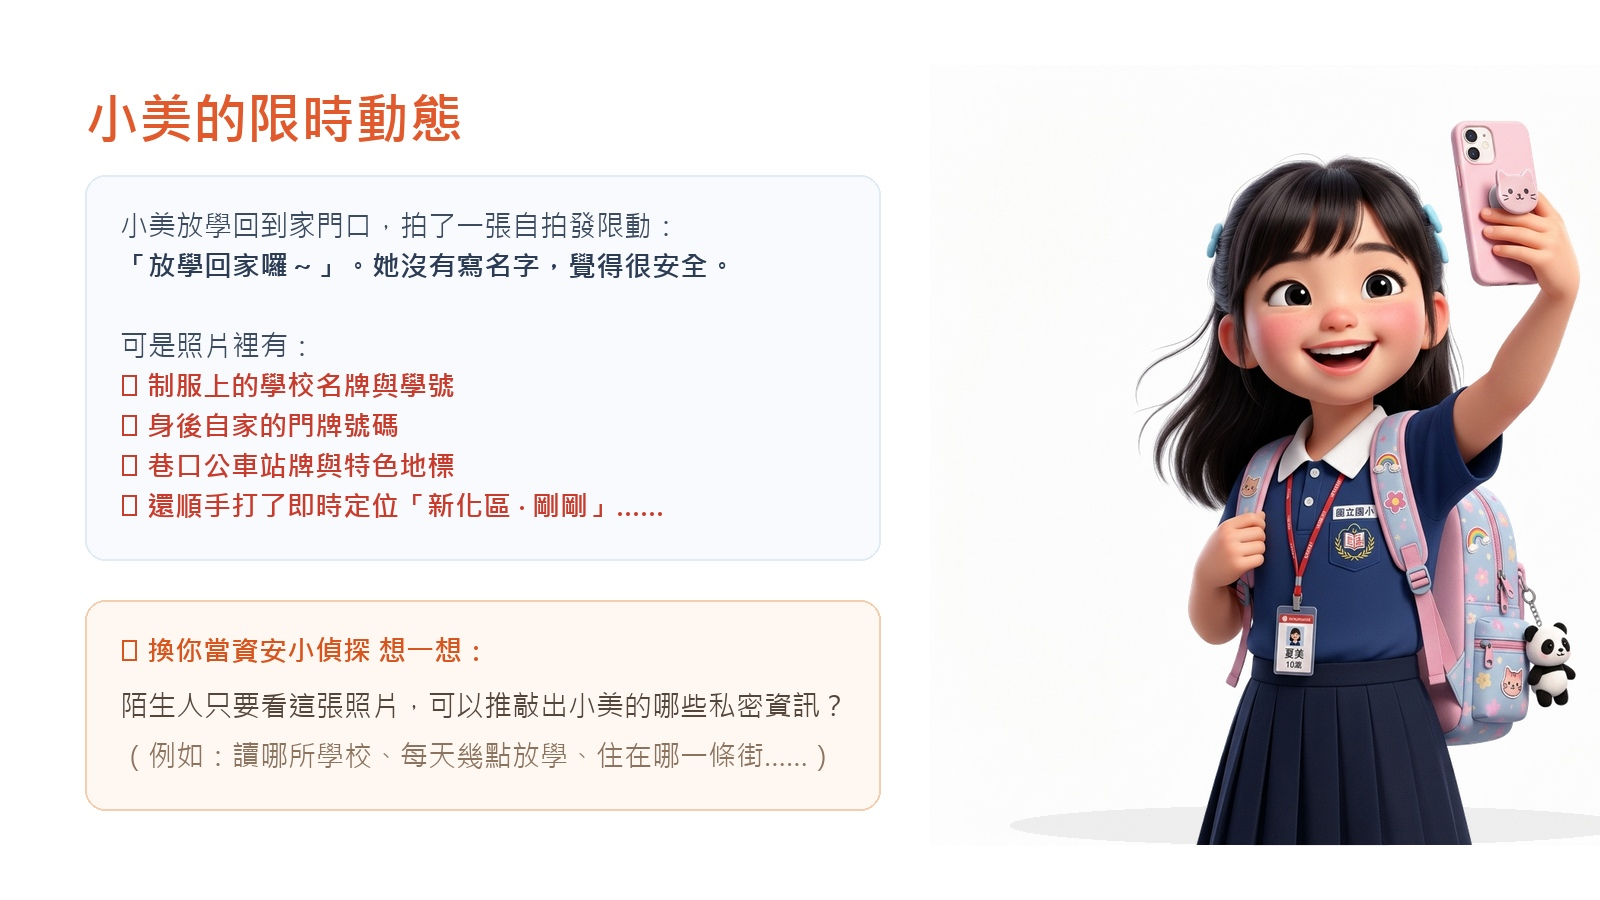
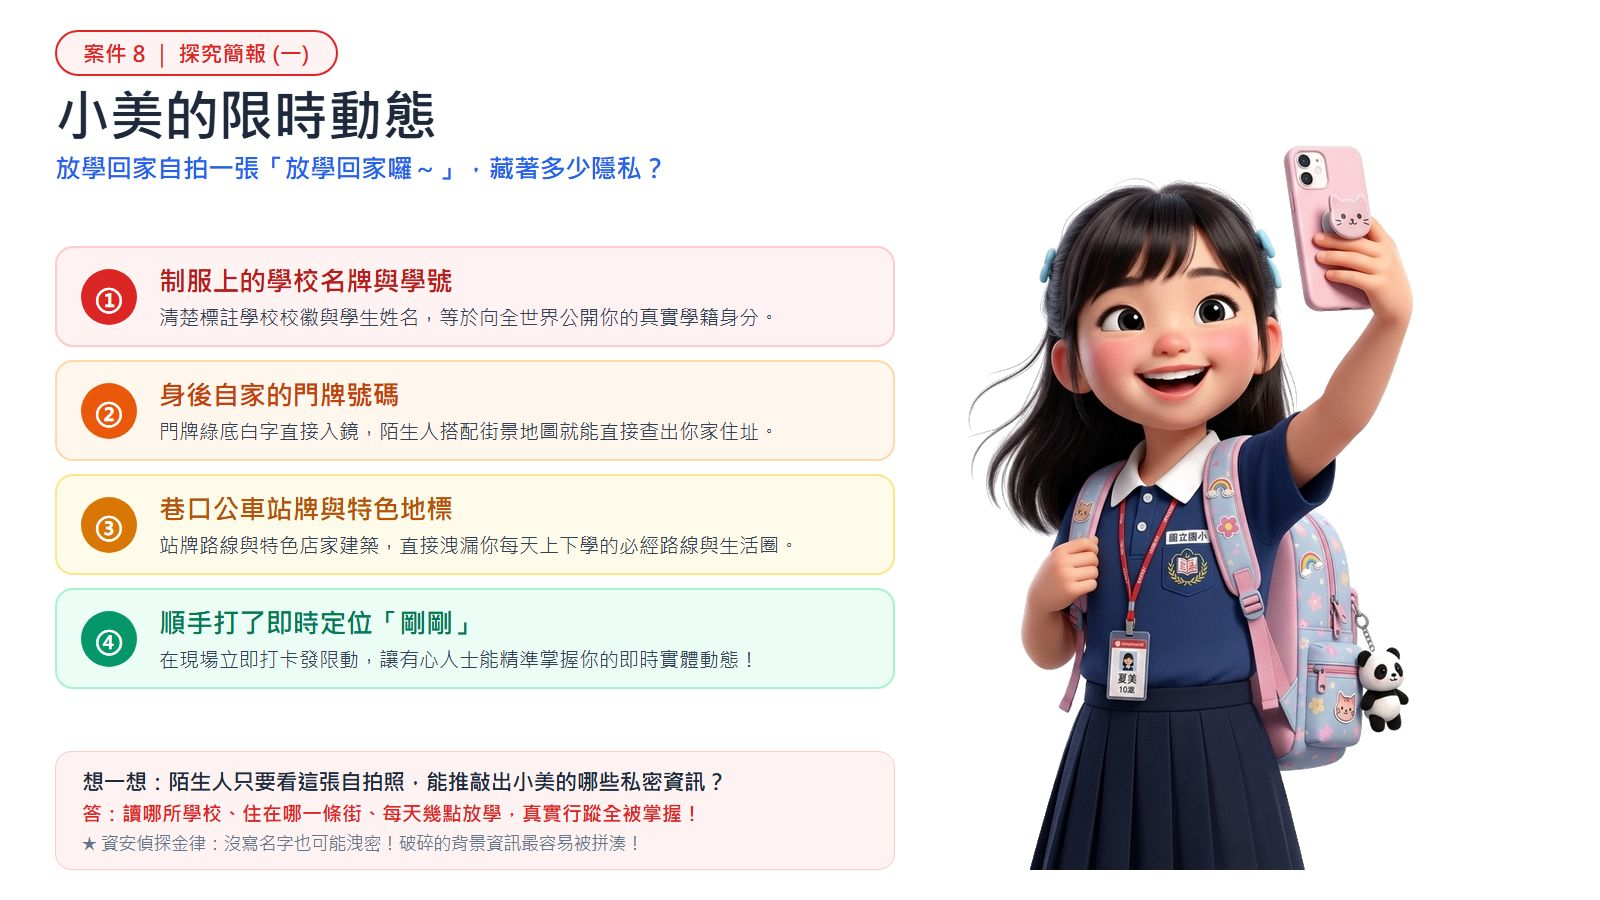
fix(case8): 案件8限時動態全面升級3D皮克斯自拍小美與黃金留白

diff --git a/units/g5-cyber-safety/index.html b/units/g5-cyber-safety/index.html
@@ -587,7 +587,7 @@
         {
           title: '案件 8　限時動態洩密',
           text: '沒寫名字也可能洩密。制服、門牌、站牌、打卡地點和時間，拼起來就能找到你。發文前先看一看，回家後晚點再發，限好友看。',
-          slides: ['assets/d1_story.jpg?v=202610232030', 'assets/d2_footprint.jpg?v=202610232030'],
+          slides: ['assets/d1_story.jpg?v=20261024_case8_pixar_perfect', 'assets/d2_footprint.jpg?v=20261024_case8_pixar_perfect'],
           interactive: GAMES.story,
           quizzes: [
             {
@@ -608,7 +608,7 @@
               feedback: '延時發布能打破「時間＋空間」的物理連結，讓潛在犯罪者無法掌握你的即時行蹤。'
             }
           ],
-          infographic: 'assets/i8_story_v3.jpg?v=20261023_perfect?v=20261023f',
+          infographic: 'assets/i8_story_v3.jpg?v=20261024_case8_pixar_perfect',
           teacherTips: ['可請學生分組找出自己平常拍照容易入鏡的個資（制服、名牌、車牌、門牌、窗外地標）。']
         },
         {

diff --git a/handoff.md b/handoff.md
@@ -78,24 +78,34 @@
     - 依 Kristy 指導「字可以再大」：主標題放大至 **56px**、卡片標題 **26.5px**、卡片說明 **20.5px**、序號徽章 **56px**（數字 **27px**）、底部金律提示框 **23px**！
     - 人物與細節：徹底抹除舊圖底部淡藍橫線與雜線，手持平板（顯示抓拍與 GPS 經緯度）之小男孩與條紋女孩生動立體，留白舒適。
     - 經 Kristy 檢視預覽確認許可（"OK"）後，正式覆蓋並更新快取碼 `?v=20261024_case7_photo_large`。
+- **依據 Kristy 最新指導完成案件 8（限時動態洩密·小美自拍與數位足跡·3D皮克斯全套純白底）全面升級上線（2026-10-24 14:38）**：
+  - **全套統一 3D 皮克斯風格**：
+    - 依 Kristy 指導「風格差太多，改成小美的自拍陷阱那個女孩」：資訊圖表（`i8_story_v3.jpg`）徹底淘汰手繪水彩風格，全面更換為超可愛 3D 皮克斯小美自拍女孩，風格全站 100% 一致！
+    - 精緻去背純白無暇：消除小美左側原先的垂直灰界線與底部切痕，純白底 `#FFFFFF`。
+  - **案件 8 探究簡報（二）（`d2_footprint.jpg`）**：
+    - 依 Kristy 指導「往左一點」：小男孩緊密去背並往左平移至黃金比例，右手持有的科技放大鏡與左側卡片留出約 **70px** 的黃金呼吸留白，徹底消除原本 290px 空洞感；底部的灰色矩形塊與切痕亦已徹底清除！
+  - **案件 8 探究簡報（一）（`d1_story.jpg`）**：
+    - 升級為標準四彩卡片＋底部想一想互動提示框，搭配純白乾淨 3D 小美自拍。
+  - **教學超大字體與快取碼更新**：
+    - 主標題 55px、卡片標題 26.5px、內文 20px、底部金律 21.5px~22.5px。
+    - 經 Kristy 檢視預覽確認許可（"OK"）後，正式覆蓋並更新 `index.html` 快取碼 `?v=20261024_case8_pixar_perfect`。
 - 已全自動完成 `git commit`、`git push origin main` 與 Google 雲端硬碟 `robocopy` 雙重備份！
 
 ## 🚦 目前狀態
-- 案件 1、案件 2、案件 3、案件 4、案件 5、案件 6、案件 7 的所有投影片與資訊圖表皆已完美定稿、對齊無遮擋並發布至 GitHub Pages！
+- 案件 1、案件 2、案件 3、案件 4、案件 5、案件 6、案件 7、案件 8 的所有投影片與資訊圖表皆已完美定稿、對齊無遮擋並發布至 GitHub Pages！
 - 教學影片播放清單（含《2020》網路危機等 4 部短片）已上線。
 
 ## ➡ 下一步
-1. 依 Kristy 指示推進下一個案件的圖片檢視與修正（如案件 8 小美限動自拍、案件 9 釣魚等）。
-2. 案件 8 目前 `index.html` 誤連至 `v10_game_v2.jpg`，實際已有小美自拍限動 `d1_story.jpg` 與數位足跡 `d2_footprint.jpg`。
-3. 案件 9 目前 `index.html` 誤連至 `v11_bully_v2.jpg`，實際已有帥氣放大鏡小男孩 `final_case9_phish.jpg`。
-4. 案件 10、11 目前無 `slides` 投影片，需補齊。
+1. 依 Kristy 指示推進下一個案件的圖片檢視與修正（案件 9 釣魚網址與 QR code、案件 10 遊戲寶物交易、案件 11 群組旁觀者）。
+2. **案件 9**（釣魚網址與 QR code）：已有帥氣 3D 男孩放大鏡 `final_case9_phish.jpg`，升級為大字體與標準四彩卡片並檢視第二張 `e2_qr_v3.jpg`。
+3. 案件 10、11 目前無 `slides` 投影片，需補齊。
 
 ## ⚠ 注意事項
 - 嚴格遵守「做好先給 Kristy 看，確認後才放」原則。
 - 所有插圖角色自然多元（小男孩、小女孩、阿嬤、同儕），全數統一為 16:9 純白底繪本規格。
 
 ## 🕐 最後更新
-- 時間：2026-10-24 14:05
+- 時間：2026-10-24 14:38
 - 更新者：Antigravity @ LAPTOP-IUMJF2MM
 
 
